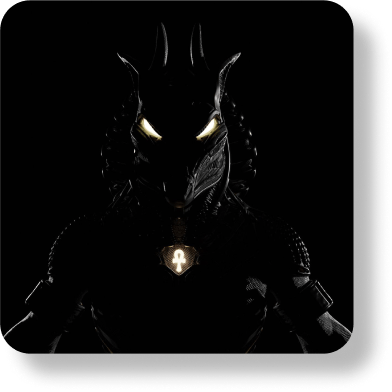
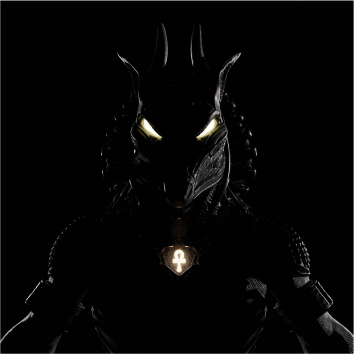
Сделан фикс карточки и картинок в других карточках

diff --git a/src/components/AboutSlider.js b/src/components/AboutSlider.js
@@ -5,7 +5,7 @@ import { A11y, Autoplay, EffectCards } from "swiper";
 import "swiper/css";
 import "swiper/css/autoplay";
 
-import Card from "./Card";
+import ShopCard from "./ShopCard";
 
 import heathensImagePath from "../images/heathens.png";
 import blvckImagePath from "../images/blvck.png";
@@ -24,8 +24,7 @@ function AboutSlider() {
       autoplay={{ delay: 4000, disableOnInteraction: false }}
     >
       <SwiperSlide>
-        <Card
-          slide={true}
+        <ShopCard
           id=""
           title="Heathens"
           price={200}
@@ -33,8 +32,7 @@ function AboutSlider() {
         />
       </SwiperSlide>
       <SwiperSlide>
-        <Card
-          slide={true}
+        <ShopCard
           id=""
           title="Blvck"
           price={450}
@@ -42,8 +40,7 @@ function AboutSlider() {
         />
       </SwiperSlide>
       <SwiperSlide>
-        <Card
-          slide={true}
+        <ShopCard
           id=""
           title="Kraken Secret Society"
           price={320}
@@ -51,8 +48,7 @@ function AboutSlider() {
         />
       </SwiperSlide>
       <SwiperSlide>
-        <Card
-          slide={true}
+        <ShopCard
           id=""
           title="Warriors Of Ankh"
           price={200}

diff --git a/src/index.css b/src/index.css
@@ -122,6 +122,16 @@
 @import url(./blocks/connection/connection.css);
 @import url(./blocks/connection/__wallets-showmore/connection__wallets-showmore.css);
 
+/* SHOP-CARD */ 
+@import url(./blocks/shop-card/shop-card.css);
+@import url(./blocks/shop-card/__title/shop-card__title.css);
+@import url(./blocks/shop-card/__price/shop-card__price.css);
+@import url(./blocks/shop-card/__image/shop-card__image.css);
+@import url(./blocks/shop-card/__info-container/shop-card__info-container.css);
+@import url(./blocks/shop-card/__buy-button/shop-card__buy-button.css);
+@import url(./blocks/shop-card/__info-wrapper/shop-card__info-wrapper.css);
+
+
 /* OURCONTACTS */
 @import url('./blocks/ourcontacts/__links-circle/ourcontacts__links-circle.css');
 @import url('./blocks/ourcontacts/__links-link/ourcontacts__links-link.css');

diff --git a/src/components/Card.js b/src/components/Card.js
@@ -1,10 +1,10 @@
-function Card({id, title, price, imagePath, slide}) {
+function Card({ id, title, price, imagePath, slide }) {
     return (
-        <div id={id} className={slide ? "card_theme_slide card" : "card"}>
-            <img className="card__image" src={imagePath} alt="Heathens picture" />
-            <h3 className="card__title">{title}</h3>
-            <p className="card__price">{price}$</p>
-        </div>
+      <div id={id} className={slide ? "card_theme_slide card" : "card"}>
+        <img className="card__image" src={imagePath} alt="Heathens picture" />
+        <h3 className="card__title">{title}</h3>
+        <p className="card__price">{price}$</p>
+      </div>
     );
   }
   

diff --git a/src/components/ShopCard.js b/src/components/ShopCard.js
@@ -1,0 +1,20 @@
+function ShopCard({ id, title, price, imagePath }) {
+  return (
+    <div id={id} className="shop-card">
+      <img
+        className="shop-card__image"
+        src={imagePath}
+        alt={`${title} picture`}
+      />
+      <div className="shop-card__info-wrapper">
+        <div className="shop-card__info-container">
+          <h3 className="shop-card__title">{title}</h3>
+          <p className="shop-card__price">{price}$</p>
+        </div>
+        <button className="shop-card__buy-button">buy</button>
+      </div>
+    </div>
+  );
+}
+
+export default ShopCard;

diff --git a/src/blocks/shop-card/__buy-button/shop-card__buy-button.css b/src/blocks/shop-card/__buy-button/shop-card__buy-button.css
@@ -1,0 +1,16 @@
+.shop-card__buy-button {
+  padding: 0;
+  margin: auto auto;
+  width: 170px;
+  height: 28px;
+  font-family: "Montserrat";
+  font-style: normal;
+  font-weight: 300;
+  font-size: 14px;
+  line-height: 20px;
+  /* identical to box height */
+  background: transparent;
+  text-transform: uppercase;
+  color: #ffffff;
+  border: 1px solid #ffffff;
+}

diff --git a/src/blocks/mini-card/__image/mini-card__image.css b/src/blocks/mini-card/__image/mini-card__image.css
@@ -1,5 +1,7 @@
-.mini-card__image{
-    width: 65px;
-    height: 65px;
-    grid-area: img;
+.mini-card__image {
+  width: 65px;
+  height: 65px;
+  filter: drop-shadow(20px 20px 18px rgba(0, 0, 0, 0.28));
+  border-radius: 20px;
+  grid-area: img;
 }

diff --git a/src/blocks/card/__image/card__image.css b/src/blocks/card/__image/card__image.css
@@ -1,5 +1,6 @@
-.card__image{
-  width: 110%;
-  /* margin: 20px 0 0 0; */
+.card__image {
+  width: 100%;
+  filter: drop-shadow(20px 20px 18px rgba(0, 0, 0, 0.28));
+  border-radius: 20px;
   margin: auto;
 }

diff --git a/src/blocks/shop-card/__price/shop-card__price.css b/src/blocks/shop-card/__price/shop-card__price.css
@@ -1,0 +1,10 @@
+.shop-card__price {
+  margin: 10px 0 0 10px;
+  font-family: "Montserrat";
+  font-style: normal;
+  font-weight: 100;
+  font-size: 12px;
+  line-height: 15px;
+
+  color: #ffffff;
+}

diff --git a/src/blocks/shop-card/__title/shop-card__title.css b/src/blocks/shop-card/__title/shop-card__title.css
@@ -1,0 +1,10 @@
+.shop-card__title {
+  margin: 0 0 0 10px;
+  font-family: "Montserrat";
+  font-style: normal;
+  font-weight: 300;
+  font-size: 12px;
+  line-height: 15px;
+
+  color: #ffffff;
+}

diff --git a/src/blocks/shop-card/shop-card.css b/src/blocks/shop-card/shop-card.css
@@ -1,0 +1,8 @@
+.shop-card {
+  position: relative;
+  width: 340px;
+  background-color: black;
+  border: 1px solid #FFFFFF;
+  backdrop-filter: blur(21px);
+  margin: 0px auto 0px auto;
+}

diff --git a/src/blocks/shop-card/__info-container/shop-card__info-container.css b/src/blocks/shop-card/__info-container/shop-card__info-container.css
@@ -1,0 +1,6 @@
+.shop-card__info-container{
+    margin: 10px 0;
+    width: 45%;
+    display: flex;
+    flex-direction: column;
+}

diff --git a/src/blocks/shop-card/__info-wrapper/shop-card__info-wrapper.css b/src/blocks/shop-card/__info-wrapper/shop-card__info-wrapper.css
@@ -1,0 +1,5 @@
+.shop-card__info-wrapper{
+    width: 100%;
+    display: flex;
+    border-top: 1px solid #FFFFFF;
+}
